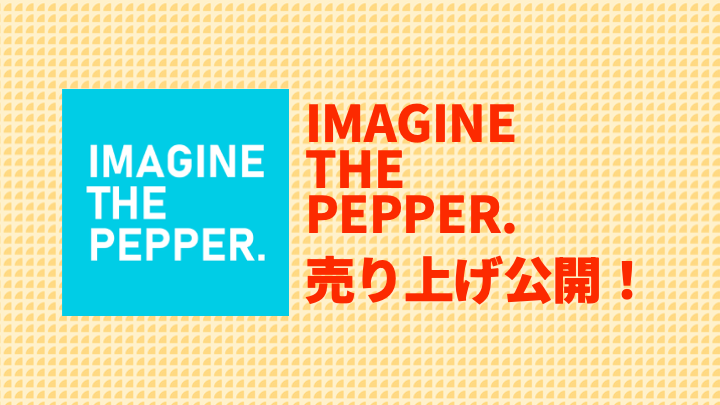
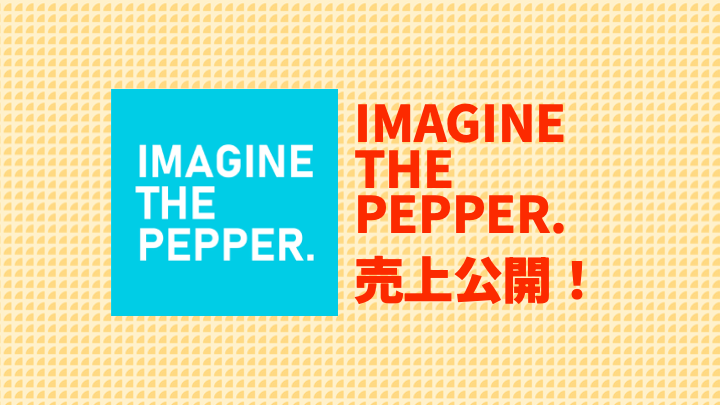
表示変更

Changed region(s): [[0.0611, 0.2074, 0.8861, 0.8]]

diff --git a/index.html b/index.html
@@ -3,12 +3,12 @@
 <head>
   <meta charset="UTF-8">
   <meta name="viewport" content="width=device-width, initial-scale=1.0">
-  <title>IMAGINE THE PEPPER. リアルタイム売り上げ</title>
+  <title>IMAGINE THE PEPPER. リアルタイム売上</title>
   <link href="./style.css" rel="stylesheet">
   <meta property="og:url" content=" https://pocopota.github.io/itp" />
-  <meta property="og:title" content="IMAGINE THE PEPPER. リアルタイム売り上げ" />
-  <meta property="og:description" content="IMAGINE THE PEPPER. リアルタイム売り上げ公開システム" />
-  <meta property="og:site_name" content="IMAGINE THE PEPPER. リアルタイム売り上げ" />
+  <meta property="og:title" content="IMAGINE THE PEPPER. リアルタイム売上" />
+  <meta property="og:description" content="IMAGINE THE PEPPER. リアルタイム売上公開システム" />
+  <meta property="og:site_name" content="IMAGINE THE PEPPER. リアルタイム売上" />
   <meta property="og:image" content="https://pocopota.github.io/itp/ogp.png" />
   <meta name="twitter:card" content="summary_large_image" />
 </head>

diff --git a/script.js b/script.js
@@ -25,7 +25,7 @@ onSnapshot(collection(db, "pub_sales"), (snapshot) => {
   displayElem.textContent = `${abTotalQuantity}`;
 
   // Twitterリンクも更新
-  const text = `現在のペッパーランチの売り上げは ${abTotalQuantity}個！  #ImagineThePepper #売上公開 #やど祭  https://pocopota.github.io/itp`;
+  const text = `現在のペッパーランチの売上は ${abTotalQuantity}個！  #ImagineThePepper #売上公開 #やど祭  https://pocopota.github.io/itp`;
   const url = new URL("https://twitter.com/intent/tweet");
   url.searchParams.set("text", text);
   shareLink.href = url.toString();

diff --git a/chart.html b/chart.html
@@ -33,7 +33,7 @@
   </style>
 </head>
 <body>
-  <h2>累計売り上げ個数グラフ（1分ごと）</h2>
+  <h2>累計売上個数グラフ（1分ごと）</h2>
   <canvas id="salesChart" width="800" height="400"></canvas>
 </body>
 </html>
